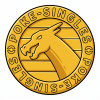
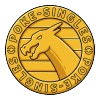
Poke-Monedas: trim /account hero copy, refresh coin art
- /account points hero: drop the "Pronto podrás canjearlas" line and the
  moneda/monedas unit label so the balance reads cleaner; removed a stray
  character left next to the coin image.
- Updated the coin-sm / coin artwork used across the account hero, header
  dropdown, and order-confirmation earned strip.

diff --git a/src/app/user/account/account.html b/src/app/user/account/account.html
@@ -192,7 +192,7 @@
             <div class="acc-eyebrow">04 —</div>
             <h2>Poke-Monedas</h2>
             <p class="acc-sub">
-              Ganas Poke-Monedas con cada compra confirmada. Pronto podrás canjearlas.
+              Ganas Poke-Monedas con cada compra confirmada.
             </p>
           </div>
         </header>
@@ -201,7 +201,6 @@
           <img class="acc-points-coin" src="assets/images/coin-sm.png" alt="" />
           <span class="acc-points-figure">
             <span class="acc-points-balance">{{ points() | number: '1.0-0' }}</span>
-            <span class="acc-points-unit brand-mono">{{ points() === 1 ? 'moneda' : 'monedas' }}</span>
           </span>
         </div>
 